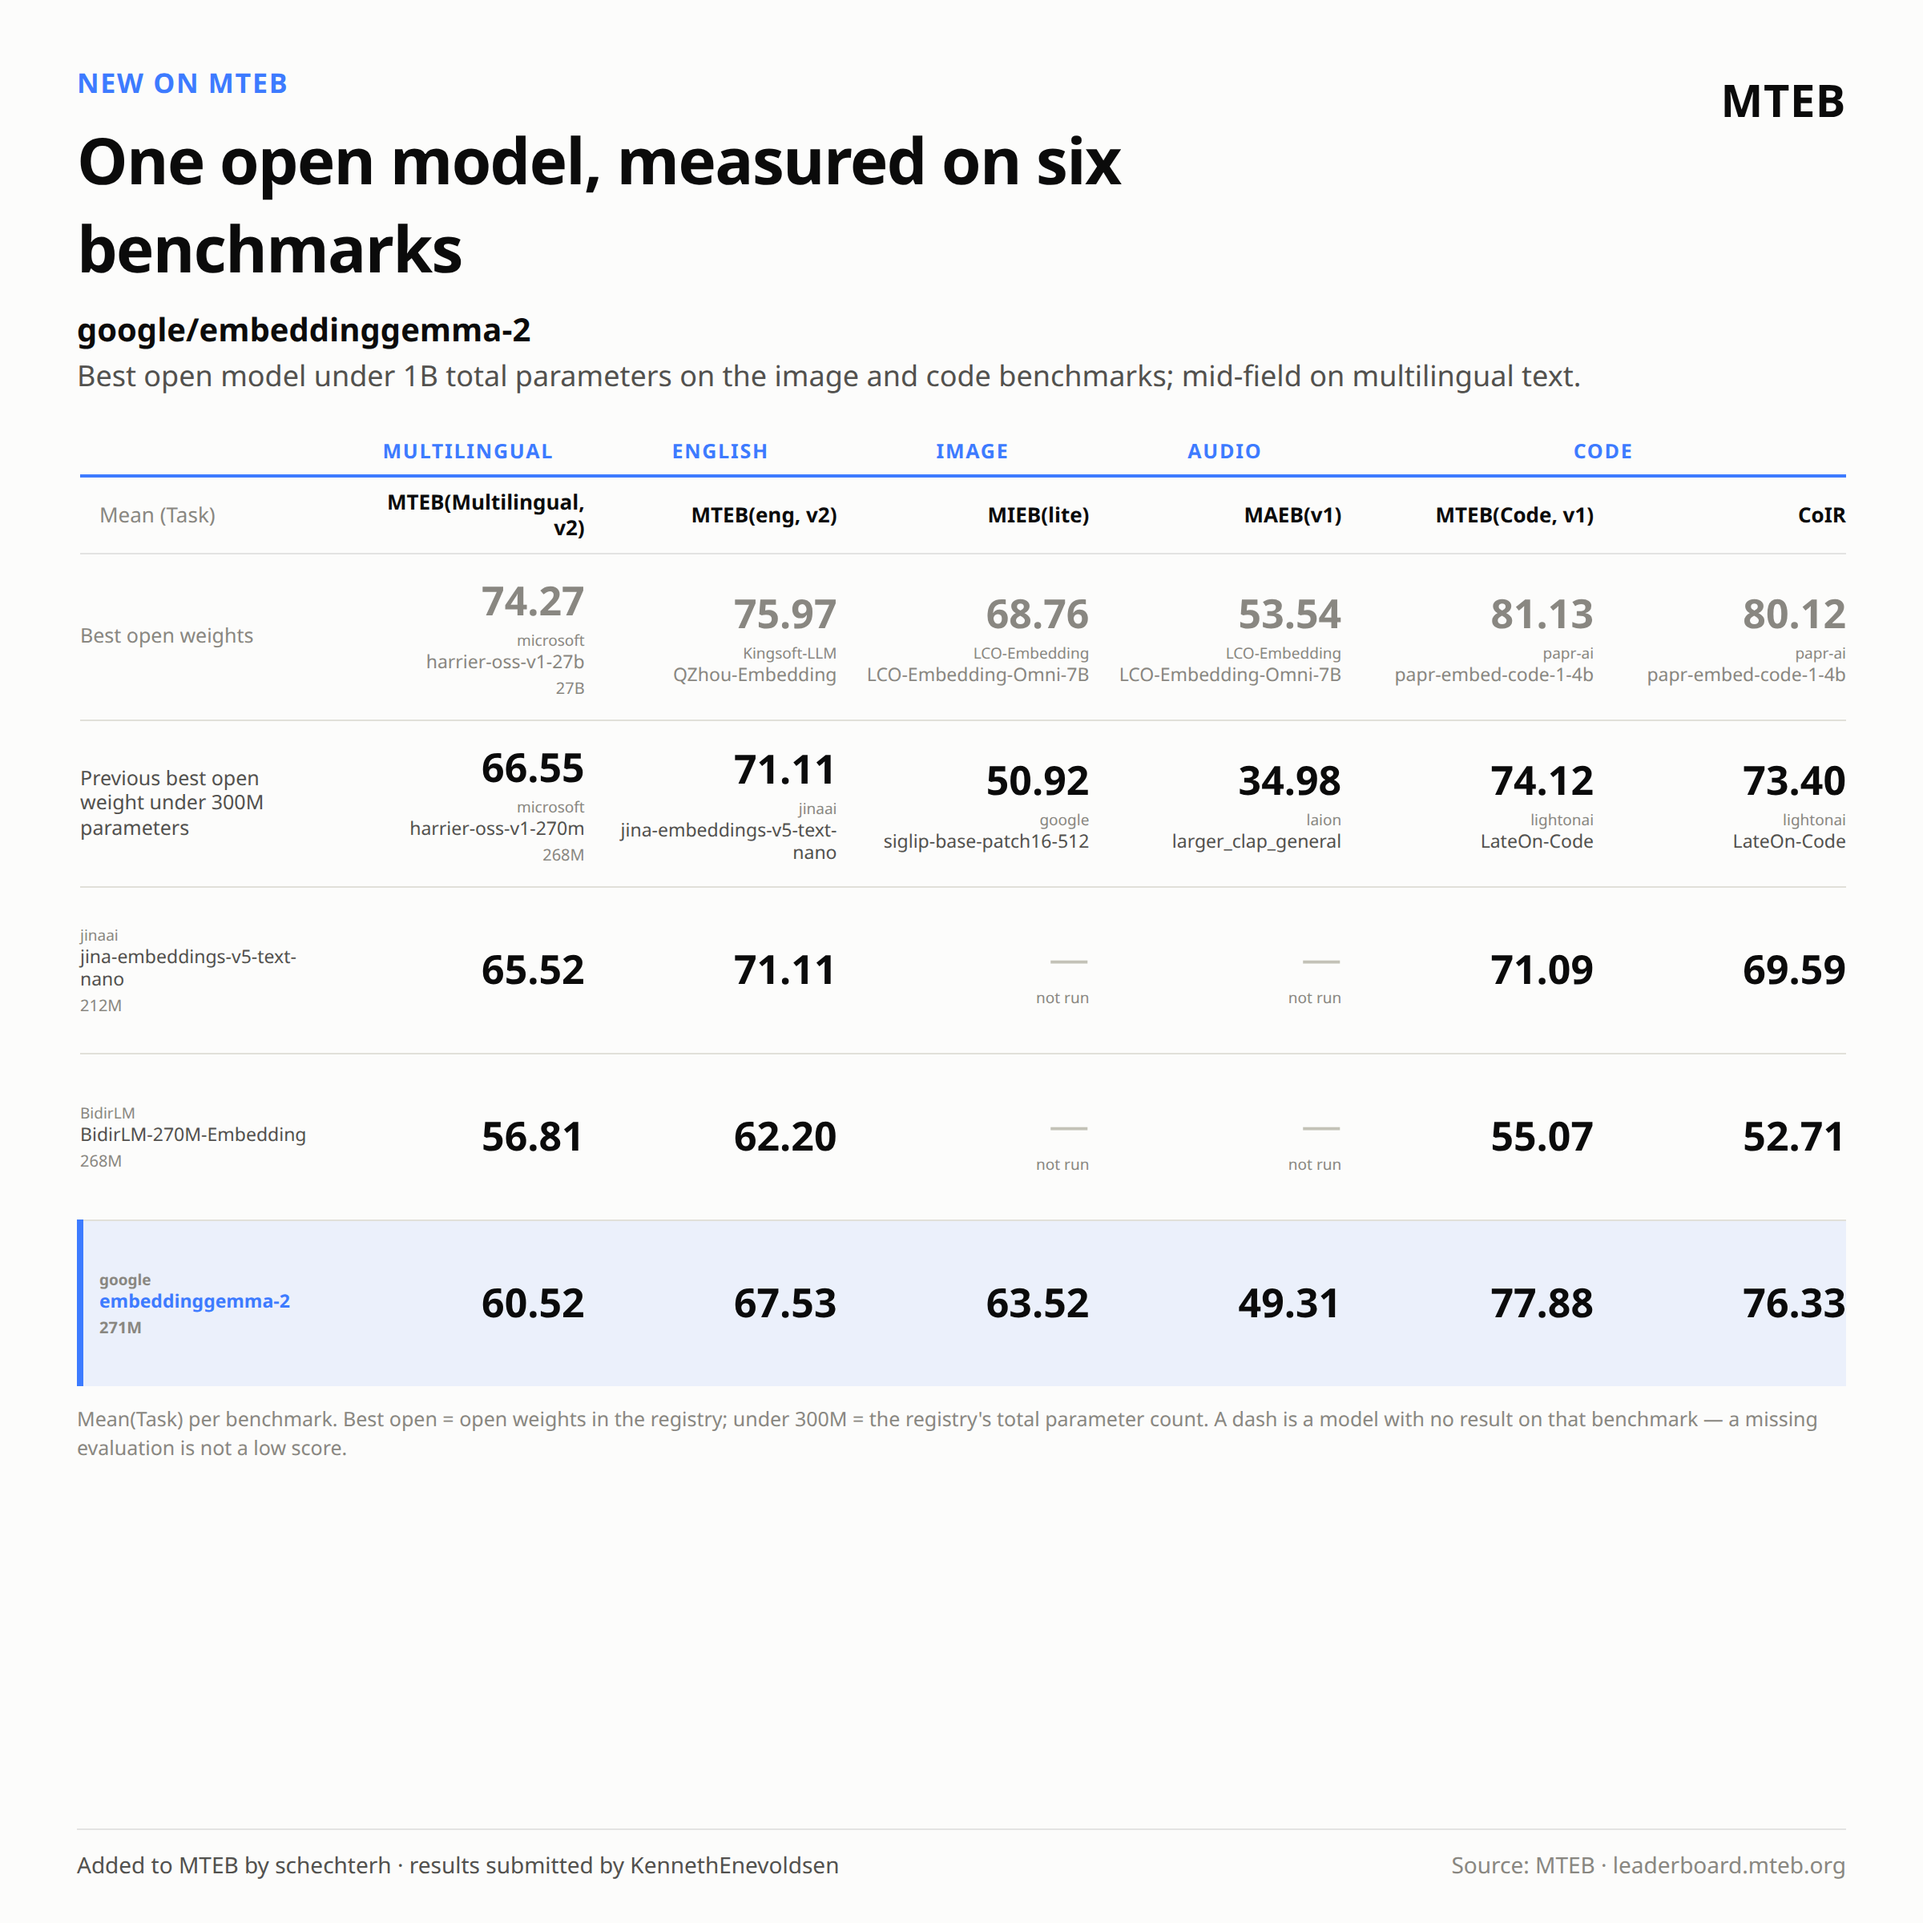
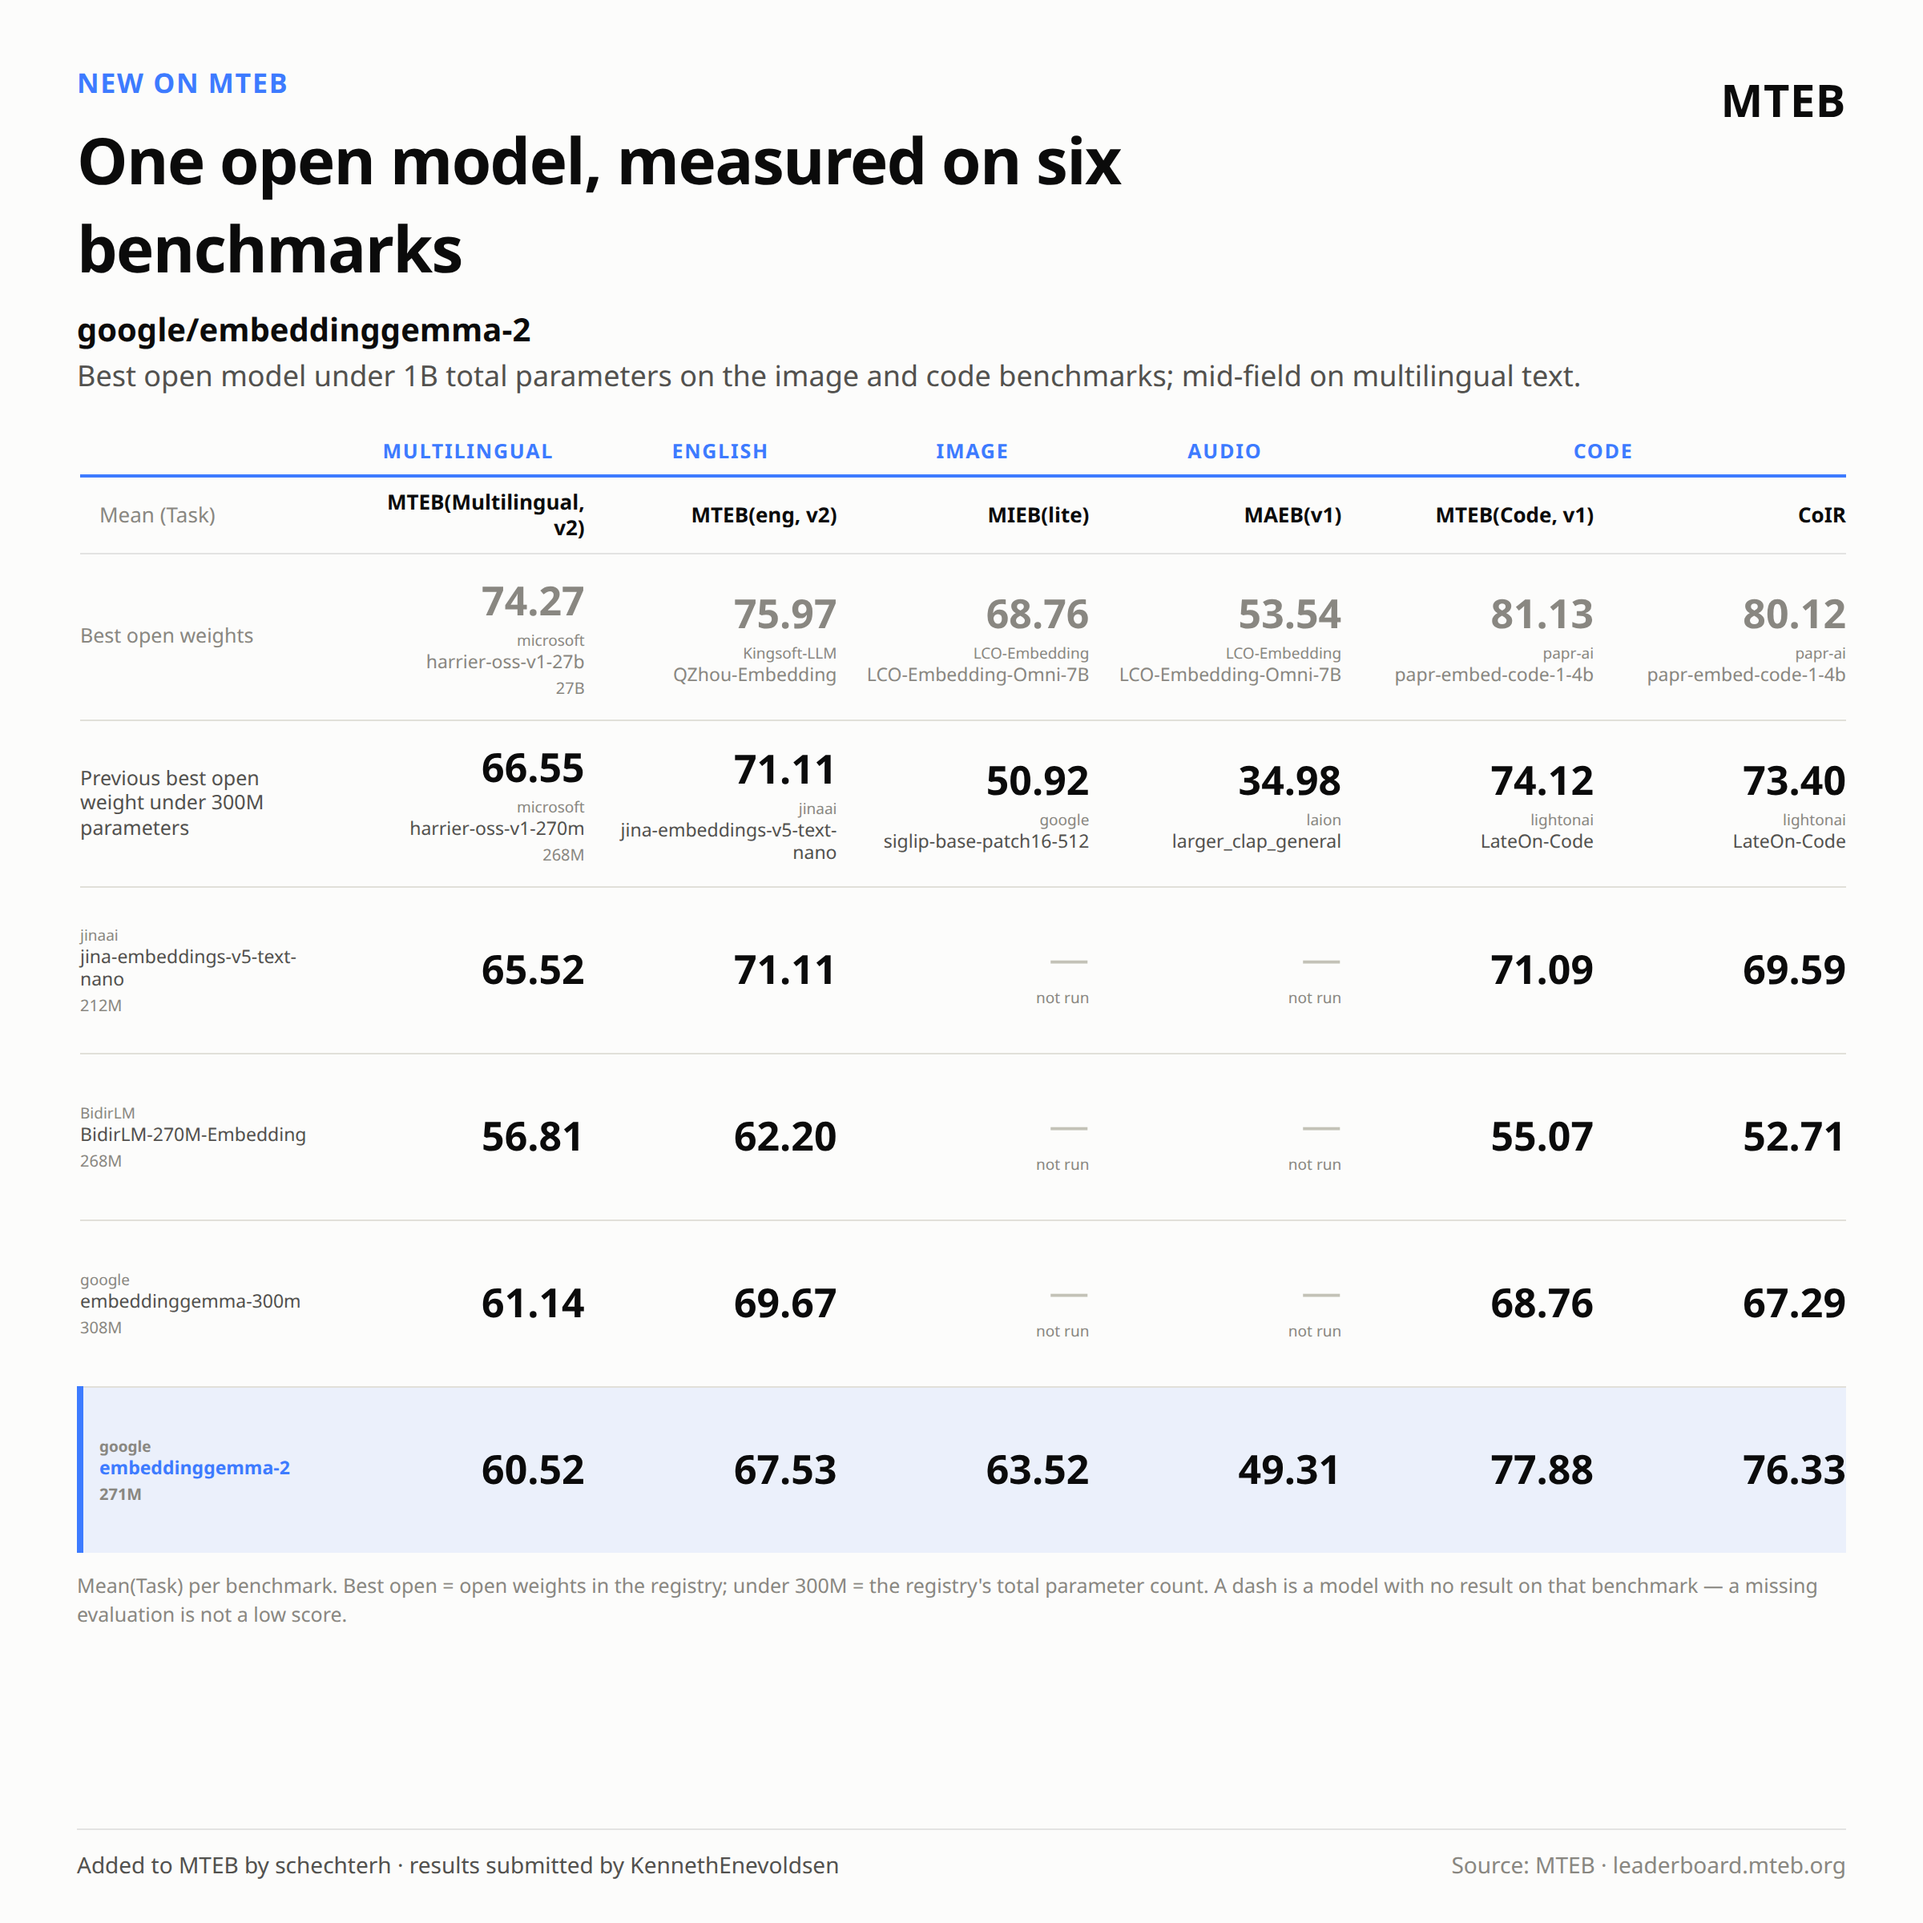
post(embeddinggemma-2): put the predecessor on the card
embeddinggemma-300m becomes a named row rather than only a sentence:
61.14 multilingual, 69.67 English, 68.76 code, 67.29 CoIR, and no image
or audio results. The alt text now builds its row list from the data so
it cannot drift again.

diff --git a/posts/3-review/embeddinggemma-2/card-1-embeddinggemma-2.html b/posts/3-review/embeddinggemma-2/card-1-embeddinggemma-2.html
@@ -50,6 +50,13 @@
           "fixed": true
         },
         {
+          "label": "google/embeddinggemma-300m",
+          "model": "google/embeddinggemma-300m",
+          "score": 61.14,
+          "params_b": 0.308,
+          "fixed": true
+        },
+        {
           "label": "google/embeddinggemma-2",
           "model": "google/embeddinggemma-2",
           "score": 60.52,
@@ -93,6 +100,13 @@
           "fixed": true
         },
         {
+          "label": "google/embeddinggemma-300m",
+          "model": "google/embeddinggemma-300m",
+          "score": 69.67,
+          "params_b": 0.308,
+          "fixed": true
+        },
+        {
           "label": "google/embeddinggemma-2",
           "model": "google/embeddinggemma-2",
           "score": 67.53,
@@ -130,6 +144,13 @@
         },
         {
           "label": "BidirLM/BidirLM-270M-Embedding",
+          "model": null,
+          "score": null,
+          "params_b": null,
+          "fixed": true
+        },
+        {
+          "label": "google/embeddinggemma-300m",
           "model": null,
           "score": null,
           "params_b": null,
@@ -179,6 +200,13 @@
           "fixed": true
         },
         {
+          "label": "google/embeddinggemma-300m",
+          "model": null,
+          "score": null,
+          "params_b": null,
+          "fixed": true
+        },
+        {
           "label": "google/embeddinggemma-2",
           "model": "google/embeddinggemma-2",
           "score": 49.31,
@@ -219,6 +247,13 @@
           "model": "BidirLM/BidirLM-270M-Embedding",
           "score": 55.07,
           "params_b": 0.268,
+          "fixed": true
+        },
+        {
+          "label": "google/embeddinggemma-300m",
+          "model": "google/embeddinggemma-300m",
+          "score": 68.76,
+          "params_b": 0.308,
           "fixed": true
         },
         {
@@ -265,6 +300,13 @@
           "fixed": true
         },
         {
+          "label": "google/embeddinggemma-300m",
+          "model": "google/embeddinggemma-300m",
+          "score": 67.29,
+          "params_b": 0.308,
+          "fixed": true
+        },
+        {
           "label": "google/embeddinggemma-2",
           "model": "google/embeddinggemma-2",
           "score": 76.33,
@@ -278,7 +320,7 @@
 }
 </script>
 <script type="text/plain" id="alt-text">
-NEW ON MTEB: One open model, measured on six benchmarks. google/embeddinggemma-2. Best open model under 1B total parameters on the image and code benchmarks; mid-field on multilingual text. Scores are Mean(Task) per benchmark, compared only against models with complete results there. Per benchmark, in row order — best open weights, previous best open weight under 300M parameters, jina-embeddings-v5-text-nano, BidirLM-270M-Embedding, google/embeddinggemma-2: MTEB(Multilingual, v2): 74.27, 66.55, 65.52, 56.81, 60.52. MTEB(eng, v2): 75.97, 71.11, 71.11, 62.20, 67.53. MIEB(lite): 68.76, 50.92, not run, not run, 63.52. MAEB(v1): 53.54, 34.98, not run, not run, 49.31. MTEB(Code, v1): 81.13, 74.12, 71.09, 55.07, 77.88. CoIR: 80.12, 73.40, 69.59, 52.71, 76.33. Blank cells mean no complete result on that benchmark. Source: MTEB, leaderboard.mteb.org.
+NEW ON MTEB: One open model, measured on six benchmarks. google/embeddinggemma-2. Best open model under 1B total parameters on the image and code benchmarks; mid-field on multilingual text. Scores are Mean(Task) per benchmark, compared only against models with complete results there. Per benchmark, in row order — Best open weights, Previous best open weight under 300M parameters, jinaai/jina-embeddings-v5-text-nano, BidirLM/BidirLM-270M-Embedding, google/embeddinggemma-300m, google/embeddinggemma-2: MTEB(Multilingual, v2): 74.27, 66.55, 65.52, 56.81, 61.14, 60.52. MTEB(eng, v2): 75.97, 71.11, 71.11, 62.20, 69.67, 67.53. MIEB(lite): 68.76, 50.92, not run, not run, not run, 63.52. MAEB(v1): 53.54, 34.98, not run, not run, not run, 49.31. MTEB(Code, v1): 81.13, 74.12, 71.09, 55.07, 68.76, 77.88. CoIR: 80.12, 73.40, 69.59, 52.71, 67.29, 76.33. Blank cells mean no complete result on that benchmark. Source: MTEB, leaderboard.mteb.org.
 </script>
 
 <style>
@@ -475,7 +517,8 @@ document.getElementById("body").innerHTML = html;
 window.__altText = [
   `${d.eyebrow}: ${COPY.title}. ${COPY.subject}.`,
   COPY.subtitle,
-  "Scores are Mean(Task) per benchmark, compared only against models with complete results there. Per benchmark, in row order — best open weights, previous best open weight under 300M parameters, jina-embeddings-v5-text-nano, BidirLM-270M-Embedding, google/embeddinggemma-2:",
+  "Scores are Mean(Task) per benchmark, compared only against models with complete results there. Per benchmark, in row order — " +
+    d.columns[0].rows.map((r) => r.label).join(", ") + ":",
   d.columns.map((c) => c.benchmark + ": " + c.rows.map((r) =>
     r.score == null ? "not run" : r.score.toFixed(2)).join(", ") + ".").join(" "),
   "Blank cells mean no complete result on that benchmark. Source: MTEB, leaderboard.mteb.org.",

diff --git a/posts/3-review/embeddinggemma-2/fetch.py b/posts/3-review/embeddinggemma-2/fetch.py
@@ -153,8 +153,12 @@ COLUMNS: list[tuple[str, list[str]]] = [
 
 # Named competitors. Both sit in the subject's own size class rather than above it, which
 # is the comparison a reader choosing between 250M models is actually making; where one has
-# no result the cell says so.
-NAMED = ["jinaai/jina-embeddings-v5-text-nano", "BidirLM/BidirLM-270M-Embedding"]
+# no result the cell says so. The predecessor is the same comparison one generation back.
+NAMED = [
+    "jinaai/jina-embeddings-v5-text-nano",
+    "BidirLM/BidirLM-270M-Embedding",
+    PREDECESSOR,
+]
 
 # Peer ceiling: total parameters from the registry, below 300M. The subject is 271M on its
 # text-only tower and 744M with every tower loaded, so the row is a like-for-like size

diff --git a/posts/3-review/embeddinggemma-2/post.md b/posts/3-review/embeddinggemma-2/post.md
@@ -49,9 +49,10 @@ Added to MTEB by schechterh; results submitted by KennethEnevoldsen.
 `google/embeddinggemma-2` embeds text, images and audio, and it is the best open model
 under 1B total parameters on the image benchmark and on `MTEB(Code, v1)` — the two places it
 leads. Everywhere else it is behind the open-weight ceiling. On text it is behind its own
-predecessor, and behind `jina-embeddings-v5-text-nano` (212M), a same-size model that now has
-the code results to compare against: the subject is 5.00 behind it on
-`MTEB(Multilingual, v2)` and 6.79 ahead of it on `MTEB(Code, v1)`.
+predecessor — 0.62 on `MTEB(Multilingual, v2)` and 2.14 on `MTEB(eng, v2)` — and behind
+`jina-embeddings-v5-text-nano` (212M), a same-size model that now has the code results to
+compare against: the subject is 5.00 behind it on `MTEB(Multilingual, v2)` and 6.79 ahead of
+it on `MTEB(Code, v1)`. Against the predecessor the code lead is 9.12 and 9.04.
 
 |  | MTEB(Multilingual, v2) | MTEB(eng, v2) | MIEB(lite) | MAEB(v1) | MTEB(Code, v1) | CoIR |
 |---|---:|---:|---:|---:|---:|---:|
@@ -59,6 +60,7 @@ the code results to compare against: the subject is 5.00 behind it on
 | Previous best open under 300M | harrier-oss-v1-270m **66.55** | jina-v5-text-nano **71.11** | siglip-base-patch16-512 50.92 | larger_clap_general 34.98 | LateOn-Code 74.12 | LateOn-Code 73.40 |
 | jina-embeddings-v5-text-nano (212M) | 65.52 | 71.11 | not run | not run | 71.09 | 69.59 |
 | BidirLM-270M-Embedding (268M) | 56.81 | 62.20 | not run | not run | 55.07 | 52.71 |
+| google/embeddinggemma-300m (308M) | 61.14 | 69.67 | not run | not run | 68.76 | 67.29 |
 | **google/embeddinggemma-2 (271M)** | 60.52 | 67.53 | **63.52** | **49.31** | **77.88** | **76.33** |
 
 Bold is the best in the column, excluding the open-weights ceiling row: the subject takes
@@ -78,9 +80,9 @@ this model.
 negative, which is not the same kind of number as the accuracy means beside it. It is in
 `data.json`.
 
-**The two named competitors have no image or audio results.** Both are text-only models, so
-four of their cells read "not run". A missing evaluation is not a low score, and a blank is
-the only honest rendering of it. Both are complete on the code benchmarks and on English.
+**The three named competitors have no image or audio results.** All are text-only models, so
+six of their cells read "not run". A missing evaluation is not a low score, and a blank is
+the only honest rendering of it. Each is complete on the code benchmarks and on English.
 
 **The reference points are open-weight models only.** A proprietary model is in
 `data.json` (and is the highest English score in the registry), but it is not something a
@@ -104,8 +106,8 @@ unchanged.
 **Why these six columns.** Each benchmark the model has results on, one column each, with the
 two code benchmarks sharing a heading. Ranks gave way to reference points on review: a rank
 against a cohort says nothing about how far back it is, and the ceiling is what a rank is
-relative to. The two rows below the ceiling are the ceiling under 300M total parameters and
-the two same-size peers.
+relative to. The three rows below the ceiling are the ceiling under 300M total parameters, the
+two same-size peers, and the predecessor.
 
 **"Best open under 1B" is total parameters from the registry.** One `ModelMeta` covers
 several tower configurations (`use_image`, `use_audio` in
@@ -113,6 +115,15 @@ several tower configurations (`use_image`, `use_audio` in
 no tower config, so the per-modality count is unknowable from the results repo. It does not
 change the claim: the subject is under 1B even with every tower loaded. The card's small-model
 row is 300M rather than 1B because that is the class the two named peers sit in.
+
+**The 271M on the card is the text tower.** The wrapper's tower table gives 271.0M text-only,
+438.8M with the image tower, 576.6M with the audio tower and 744.4M with both, and the Hub
+repo holds 744,371,512 parameters — the published model is the full multimodal one. The
+wrapper loads both towers by default and reports the loaded configuration in its model meta,
+but mteb 2.26.10 writes no per-run meta into the result files, so which configuration each
+submitted run used is not recorded there. The scores settle it in practice: MIEB tasks at
+88.6 (`ImageNetDog15Clustering`) and MAEB at 96.91 (`SpeechCommandsZeroshotv0.02`) cannot
+come from a run without those towers. The claim is unaffected either way — 744.4M is under 1B.
 
 **The code lead is narrow on `MTEB(Code, v1)`.** 77.88 against `papr-embed-code-1-0.6b`
 (596M) at 77.43 is 0.45, and the nearest model above the subject,
@@ -136,12 +147,13 @@ and any statement about why the model is built the way it is. MTEB measured neit
 
 ## Decisions for the reviewer
 
-1. **The two peer rows are the claim, not decoration.** They are same-size models, and the
-   post is now more than "a new model exists": it wins code by 6.79 and loses text by 5.00 to
-   one of them. They have no image or audio results, so the comparison is four columns of six.
-2. **The predecessor sentence stays, and the jina sentence joins it.** Both are the sentences
-   most likely to read as picking on the model, but dropping them leaves a reader to find
-   60.52 against 61.14 and 65.52 themselves.
+1. **The named rows are the claim, not decoration.** The two same-size peers make the post
+   more than "a new model exists" — it wins code by 6.79 and loses text by 5.00 to one of
+   them — and the predecessor row is the comparison a reader already has in their head. All
+   three are text-only, so the comparison is four columns of six.
+2. **The predecessor is a row now, not just a sentence.** It was the sentence most likely to
+   read as picking on the model; as a row it is the model's own history, and the reader sees
+   61.14 and 69.67 against 60.52 and 67.53 without being told what to think.
 3. **Whether the narrowness of the code lead belongs in the thread copy.** It is in the notes
    and not in the three posts; a reader who checks will see 77.43 behind 77.88, and saying
    "best" without the margin is true either way.
